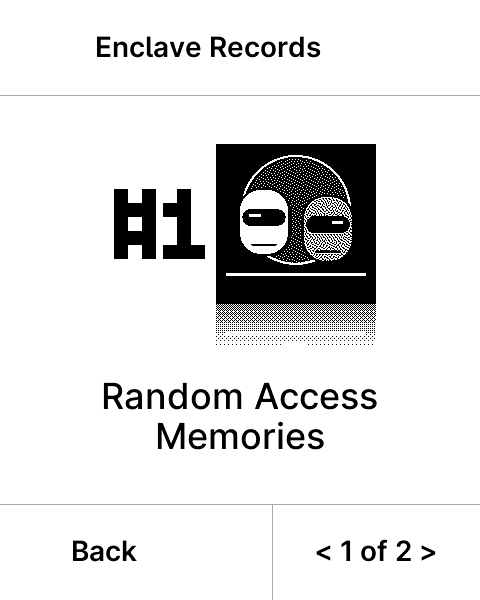
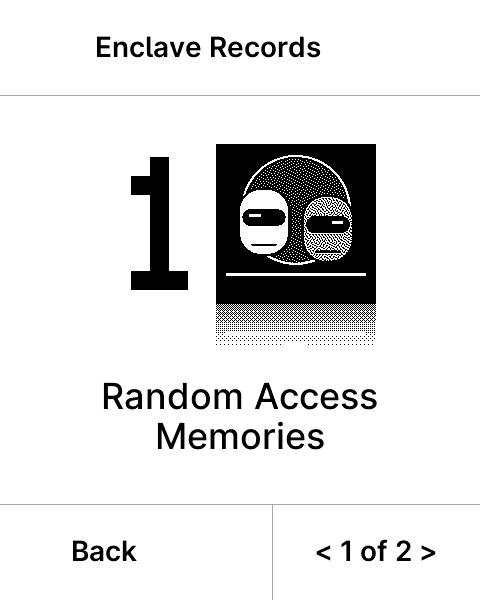
Legible edition numeral on the record card
The baked 3x5 "#" read as an "H", so "#1" looked like "H1". Drop the "#"
and render the edition number alone from a proper 5x7 numeral font (the "1"
has a flag and a base, so it never reads as a bare bar or a letter), sized to
the number column and vertically centred against the cover. Re-captured
lot1-record-card.png with the real RAM sleeve: the number reads instantly and
the cover + reflection are unchanged.

Changed region(s): [[0.2188, 0.24, 0.4375, 0.51]]

diff --git a/device-app/src/sleeve.rs b/device-app/src/sleeve.rs
@@ -91,24 +91,24 @@ const BAYER4: [[u8; 4]; 4] = [
     [15, 7, 13, 5],
 ];
 
-/// A 3x5 pixel font for the record number: digits and the leading '#'. Each
-/// glyph is five rows of three bits, MSB = leftmost column. Scaled up at draw
-/// time; a baked-in font keeps the number strictly 1-bit and needs no NBGL
-/// text-over-image trick (which the raw object path cannot do without faulting).
-fn glyph_3x5(ch: u8) -> [u8; 5] {
-    match ch {
-        b'0' => [0b111, 0b101, 0b101, 0b101, 0b111],
-        b'1' => [0b010, 0b110, 0b010, 0b010, 0b111],
-        b'2' => [0b111, 0b001, 0b111, 0b100, 0b111],
-        b'3' => [0b111, 0b001, 0b111, 0b001, 0b111],
-        b'4' => [0b101, 0b101, 0b111, 0b001, 0b001],
-        b'5' => [0b111, 0b100, 0b111, 0b001, 0b111],
-        b'6' => [0b111, 0b100, 0b111, 0b101, 0b111],
-        b'7' => [0b111, 0b001, 0b010, 0b010, 0b010],
-        b'8' => [0b111, 0b101, 0b111, 0b101, 0b111],
-        b'9' => [0b111, 0b101, 0b111, 0b001, 0b111],
-        b'#' => [0b101, 0b111, 0b101, 0b111, 0b101],
-        _ => [0; 5],
+/// A 5x7 bitmap font for the record number's digits: five bits per row (bit 4 =
+/// leftmost column), seven rows top to bottom. These are proper numeral shapes
+/// (the `1` has a flag and a base, so it never reads as a bare bar or an `l`);
+/// no `#` is drawn, since a legible hash is not achievable at this size and a
+/// large numeral reads as the edition number on its own.
+fn digit_5x7(d: u8) -> [u8; 7] {
+    match d {
+        0 => [0b01110, 0b10001, 0b10011, 0b10101, 0b11001, 0b10001, 0b01110],
+        1 => [0b00100, 0b01100, 0b00100, 0b00100, 0b00100, 0b00100, 0b01110],
+        2 => [0b01110, 0b10001, 0b00001, 0b00010, 0b00100, 0b01000, 0b11111],
+        3 => [0b11111, 0b00010, 0b00100, 0b00010, 0b00001, 0b10001, 0b01110],
+        4 => [0b00010, 0b00110, 0b01010, 0b10010, 0b11111, 0b00010, 0b00010],
+        5 => [0b11111, 0b10000, 0b11110, 0b00001, 0b00001, 0b10001, 0b01110],
+        6 => [0b00110, 0b01000, 0b10000, 0b11110, 0b10001, 0b10001, 0b01110],
+        7 => [0b11111, 0b00001, 0b00010, 0b00100, 0b01000, 0b01000, 0b01000],
+        8 => [0b01110, 0b10001, 0b10001, 0b01110, 0b10001, 0b10001, 0b01110],
+        9 => [0b01110, 0b10001, 0b10001, 0b01111, 0b00001, 0b00010, 0b01100],
+        _ => [0; 7],
     }
 }
 
@@ -156,51 +156,45 @@ fn cover_black(src: &Cover, n: usize, x: usize, y: usize) -> bool {
     !white
 }
 
-/// Draw the number ("#N") into the left column of the card, vertically centred
-/// against the cover, black on white.
+/// Draw the edition number (the numeral alone, no ambiguous '#') into the left
+/// column of the card from the 5x7 font, each cell scaled to a solid block,
+/// vertically centred against the cover. The cell scale shrinks as the digit
+/// count grows so the number always stays inside the column.
 fn draw_number(buf: &mut [u8], w: usize, h: usize, col_w: usize, cover_h: usize, number: u16) {
-    let mut chars = [0u8; 5];
-    let mut n = 0usize;
-    chars[n] = b'#';
-    n += 1;
     let mut digits = [0u8; 3];
-    let mut d = 0usize;
+    let mut nd = 0usize;
     let mut v = number;
     if v == 0 {
-        digits[d] = b'0';
-        d += 1;
+        digits[0] = 0;
+        nd = 1;
     }
-    while v > 0 && d < digits.len() {
-        digits[d] = b'0' + (v % 10) as u8;
-        d += 1;
+    while v > 0 && nd < digits.len() {
+        digits[nd] = (v % 10) as u8;
+        nd += 1;
         v /= 10;
     }
-    for i in 0..d {
-        chars[n] = digits[d - 1 - i];
-        n += 1;
-    }
+    // digits[] holds least-significant first; render most-significant first.
 
-    // Scale down as the label grows so it stays inside the number column.
-    let scale = match n {
-        0..=2 => 14usize,
-        3 => 10,
-        _ => 8,
-    };
-    let gap = scale / 2;
-    let char_w = 3 * scale;
-    let total_w = n * char_w + (n - 1) * gap;
+    let margin = 6usize;
+    let usable = col_w.saturating_sub(2 * margin);
+    // Each glyph is 5 cells wide; digits are separated by one cell of space.
+    let cells_wide = nd * 5 + (nd - 1);
+    let scale = (usable / cells_wide).min(cover_h.saturating_sub(24) / 7).max(1);
+    let glyph_w = 5 * scale;
+    let gap = scale;
+    let total_w = nd * glyph_w + (nd - 1) * gap;
     let start_x = col_w.saturating_sub(total_w) / 2;
-    let start_y = (cover_h - 5 * scale) / 2;
+    let start_y = (cover_h - 7 * scale) / 2;
 
-    for (ci, &ch) in chars.iter().take(n).enumerate() {
-        let rows = glyph_3x5(ch);
-        let cx = start_x + ci * (char_w + gap);
+    for i in 0..nd {
+        let rows = digit_5x7(digits[nd - 1 - i]);
+        let gx = start_x + i * (glyph_w + gap);
         for (r, bits) in rows.iter().enumerate() {
-            for c in 0..3 {
-                if bits & (0b100 >> c) != 0 {
+            for c in 0..5 {
+                if bits & (1 << (4 - c)) != 0 {
                     for dy in 0..scale {
                         for dx in 0..scale {
-                            ink(buf, w, h, cx + c * scale + dx, start_y + r * scale + dy);
+                            ink(buf, w, h, gx + c * scale + dx, start_y + r * scale + dy);
                         }
                     }
                 }
